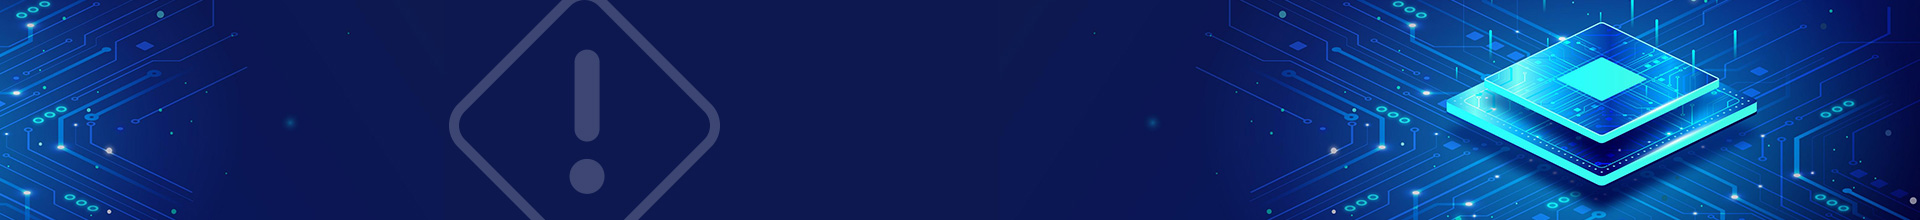
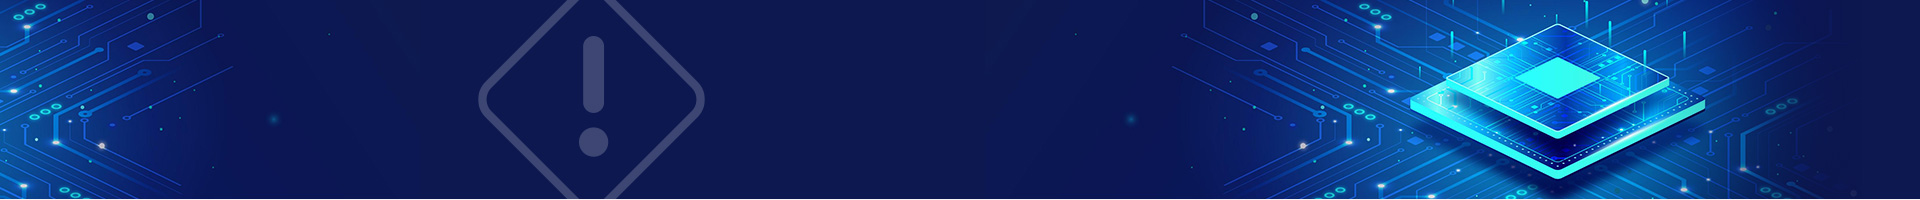
33

Changed region(s): [[0.0, 0.0, 1.0, 1.0], [0.3438, 0.3, 0.375, 0.33]]

diff --git a/inform/assets/css/main.css b/inform/assets/css/main.css
@@ -9,28 +9,28 @@ img{margin: 0; padding: 0; display: block;}
 .section{width: 100%; max-width: 1920px; margin: 0 auto;}
 /* kv */
 .kv_container{width: 100%; margin: 0 auto; background: #0d1850 url("../images/kv_bg.jpg") center top no-repeat; background-size: cover;}
-.kv{width: 100%; height: 220px; margin: 0 auto;}
-.kv_tit{font-size: 44px; font-weight: bold; line-height: 220px; text-align: center; color: #ffffff;}
+.kv{width: 100%; height: 200px; margin: 0 auto;}
+.kv_tit{font-size: 44px; font-weight: bold; letter-spacing: 1px; line-height: 200px; text-align: center; color: #ffffff;}
 /* system */
 .system_container{width: 100%; margin: 0 auto; background: #f4f4f4;}
-.system{width: 100%; padding: 30px 5%; vertical-align: middle;}
+.system{width: 100%; padding: 25px 5%; vertical-align: middle;}
 .system_txt{font-size: 18px; text-align: center; color: #005bac;}
 .system_txtb{font-weight: bold;}
 /* inform */
 .inform_container{width: 100%; max-width: 1200px; margin: 0 auto;}
-.inform{width: 100%; max-width: 1200px; padding: 5% 12%; font-size: 16px;}
-.inform_txt{text-align: left;}
+.inform{width: 100%; max-width: 1200px; padding: 4% 12%; font-size: 16px;}
+.inform_txt{text-align: justify;}
 .inform_txtb{font-weight: bold;}
 .inform_part{}
-.inform_part_tit{width: 100%; font-size: 16px; font-weight: bold; line-height: 60px; text-align: center; color: #bc925a; border-top: 1px solid #bc925a; border-bottom: 1px solid #bc925a; margin: 3% auto;}
+.inform_part_tit{width: 100%; font-size: 16px; font-weight: bold; line-height: 50px; text-align: center; color: #bc925a; border-top: 1px solid #bc925a; border-bottom: 1px solid #bc925a; margin: 25px auto;}
 .inform_part_txt{text-align: center;}
 .inform_duration{}
 .inform_duration_tit{}
 .inform_duration_tit::before{
     display: inline-block;
     content: ""; 
-    width: 30px; 
-    height: 30px; 
+    width: 25px; 
+    height: 25px; 
     background: url("../images/calendar.svg");
     vertical-align: middle;
     margin-right: 10px;
@@ -41,8 +41,8 @@ img{margin: 0; padding: 0; display: block;}
 .inform_system_tit::before{
     display: inline-block;
     content: ""; 
-    width: 30px; 
-    height: 30px; 
+    width: 25px; 
+    height: 25px; 
     background: url("../images/configuration.svg");
     vertical-align: middle;
     margin-right: 10px;
@@ -52,18 +52,21 @@ img{margin: 0; padding: 0; display: block;}
 .main{padding-top: 76px;}
 }
 @media screen and (max-width: 960px) {
+/* kv */
+.kv_container{width: 100%; max-width: 960px; margin: 0 auto; background: #0d1850 url("../images/kv_bg-960.jpg") center top no-repeat; background-size: 100% auto;}
+.kv{width: 100%; height: 0; padding-bottom: 18.75%;}
+.kv_tit{font-size: 5vw; line-height: 18vw;}
 }
 @media screen and (max-width:767px) {
 .main{padding-top: 58px;}
 /* kv */
-.kv_container{width: 100%; margin: 0 auto; background: #0d1850 url("../images/kv_bg-m.jpg") center top no-repeat; background-size: 100% auto;}
-.kv{width: 100%; height: 0; padding-bottom: 35%;}
-.kv_tit{font-size: 7vw; line-height: 33vw;}
+.kv_container{width: 100%; max-width: 767px; margin: 0 auto; background: #0d1850 url("../images/kv_bg-m.jpg") center top no-repeat; background-size: 100% auto;}
+.kv{width: 100%; height: 0; padding-bottom: 35.156%;}
+.kv_tit{font-size: 7vw; line-height: 34vw;}
 /* system */
-.system{padding: 25px 8%;}
+.system{padding: 20px 8%;}
 .system_txt{font-size: 17px; text-align: left;}
 /* inform */
 .inform{width: 100%; max-width: 767px; padding: 8%;}
-.inform_txt{text-align: justify;}
-.inform_part_tit{font-size: 18px; margin: 8% auto;}
+.inform_part_tit{font-size: 16px; line-height: 40px; margin: 20px auto;}
 }

diff --git a/inform/index.html b/inform/index.html
@@ -49,13 +49,13 @@
                 <!-- system -->
                 <section class="section system_container">
                     <div class="system">
-                        <div class="system_txt">本行系統於 <b class="system_txtb">2023年2月18日 17:00~19:00</b> 進行維護作業，將暫停<b class="system_txtb">智能客服</b>服務。</div>
+                        <div class="system_txt">本行系統於<span class="system_txtb">2023年2月18日 17:00~19:00</span>進行維護作業，將暫停<span class="system_txtb">智能客服</span>服務。</div>
                     </div>
                 </section>
                 <!-- inform -->
                 <section class="section inform_container">
                     <div class="inform">
-                        <div class="inform_txt"><b class="inform_txtb">親愛的客戶您好：</b><br />由於本行將進行系統維護作業，將於下述期間暫停以下系統之服務，如維護作業提前完成，將提早恢復服務，造成不便，敬請見諒，感謝您的體諒與配合。</div>
+                        <div class="inform_txt"><span class="inform_txtb">親愛的客戶您好：</span><br />由於本行將進行系統維護作業，將於下述期間暫停以下系統之服務，如維護作業提前完成，將提早恢復服務，造成不便，敬請見諒，感謝您的體諒與配合。</div>
                         <div class="inform_part inform_duration">
                             <div class="inform_duration_tit inform_part_tit">暫停服務期間</div>
                             <div class="inform_duration_txt inform_part_txt">2023/2/18 17:00~19:00</div>
